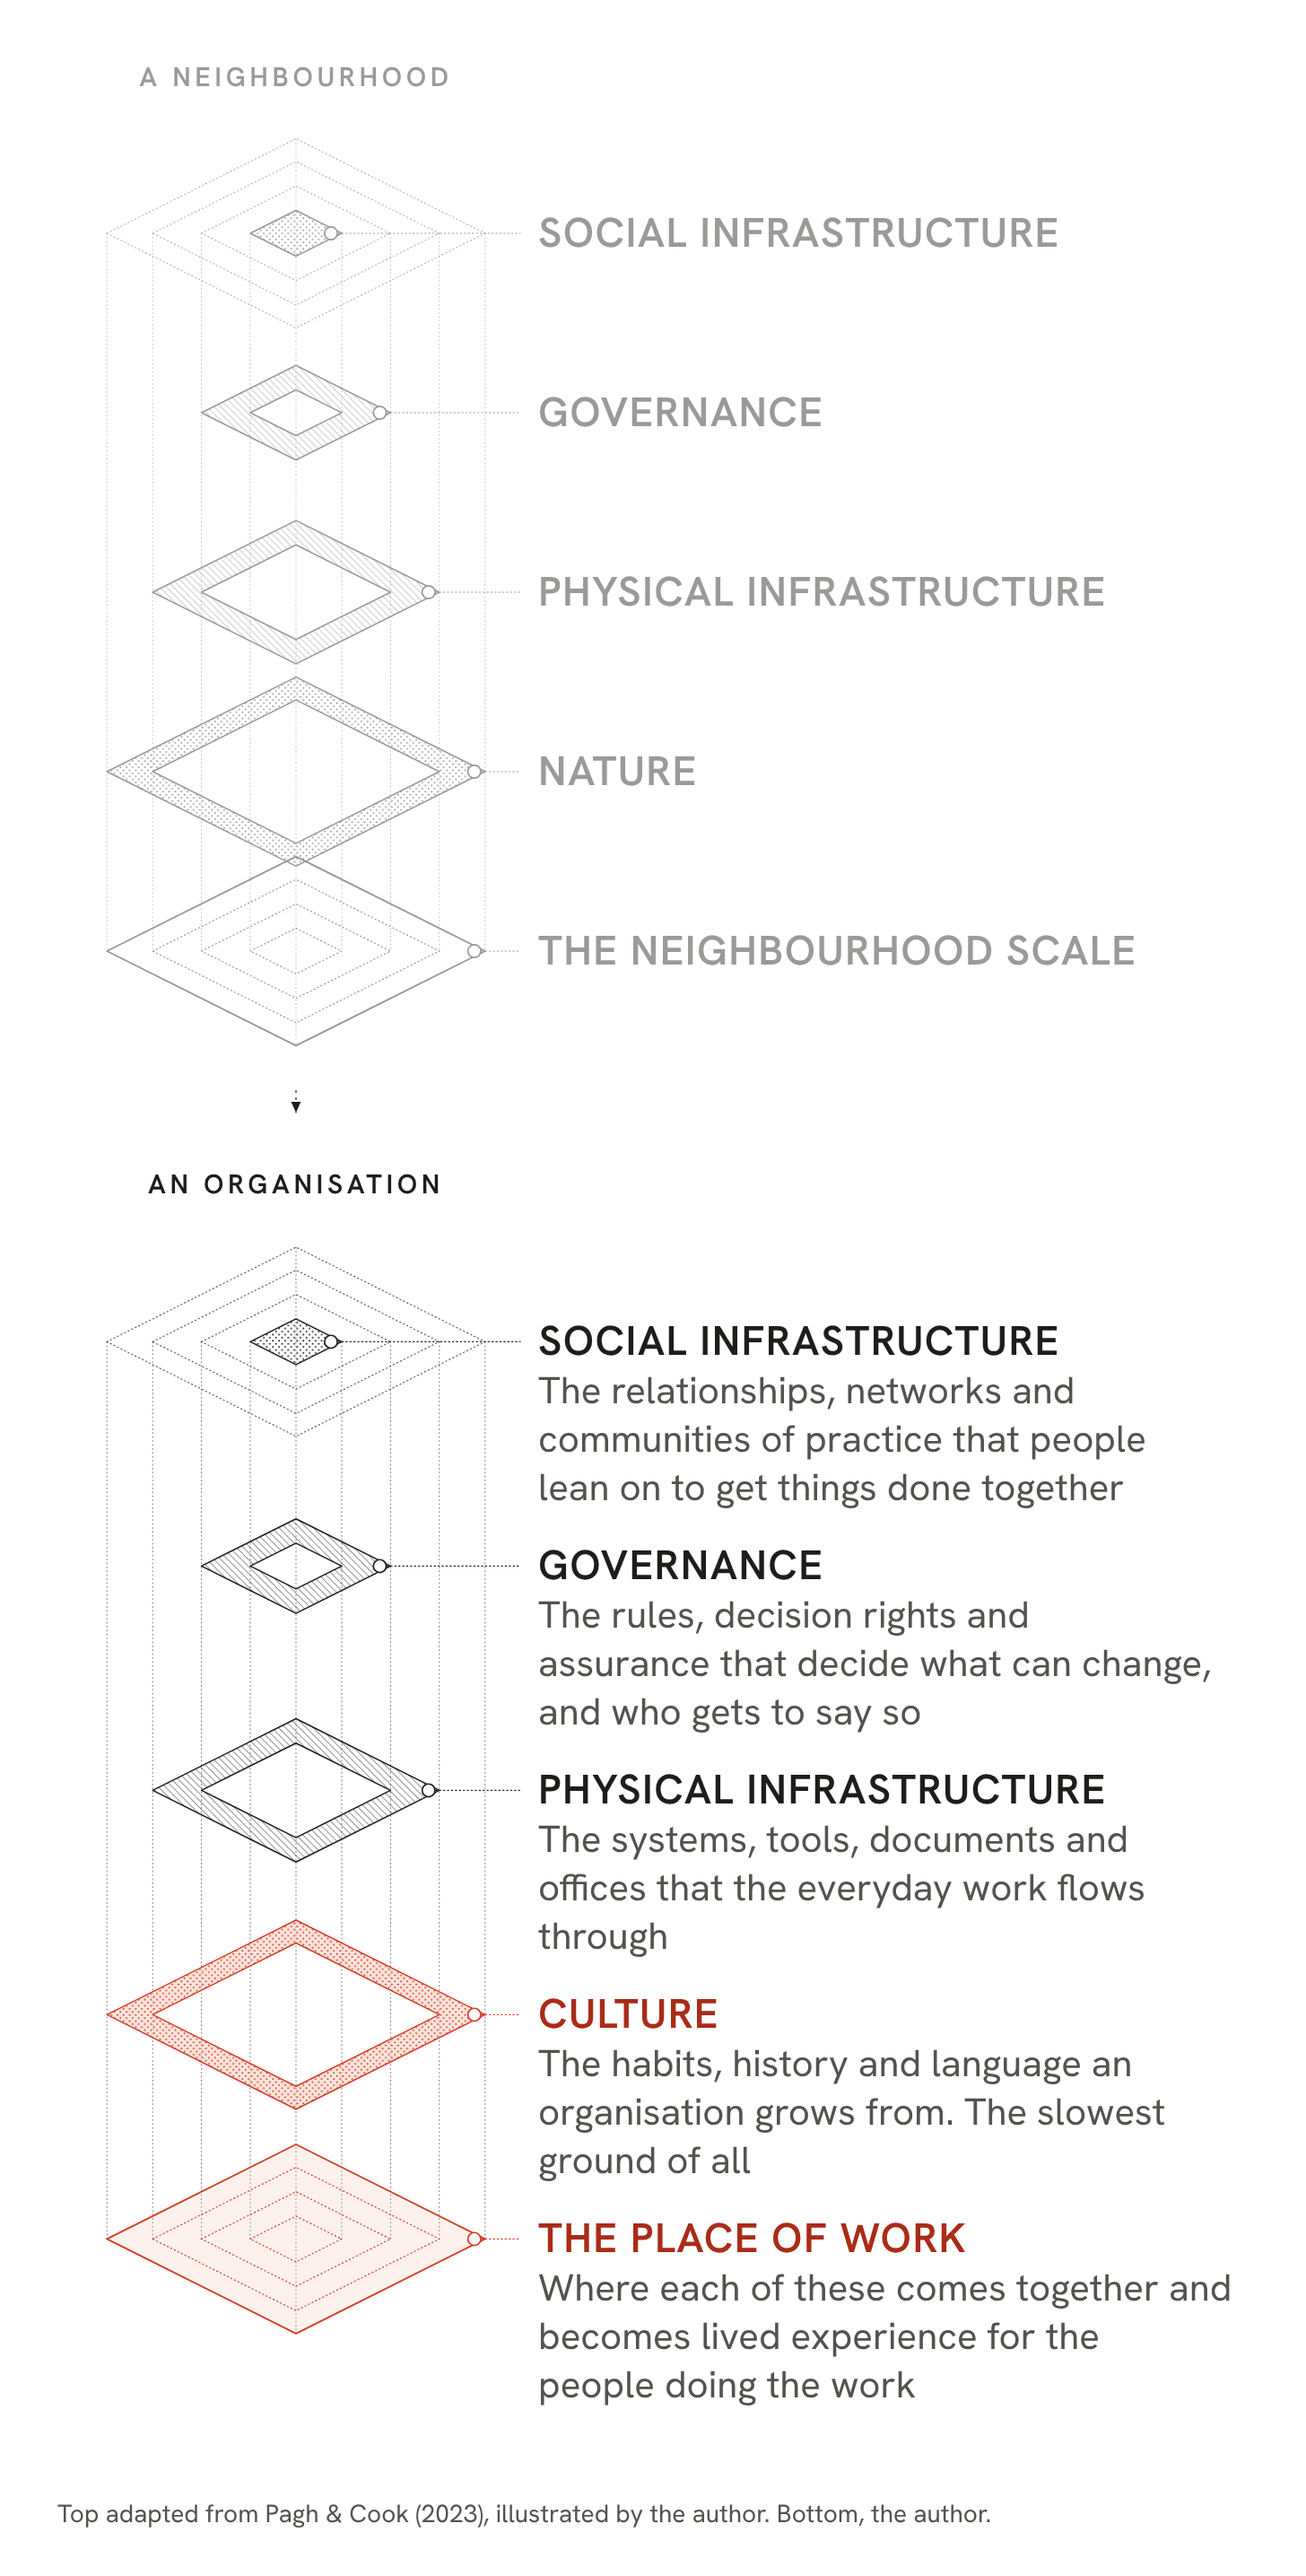
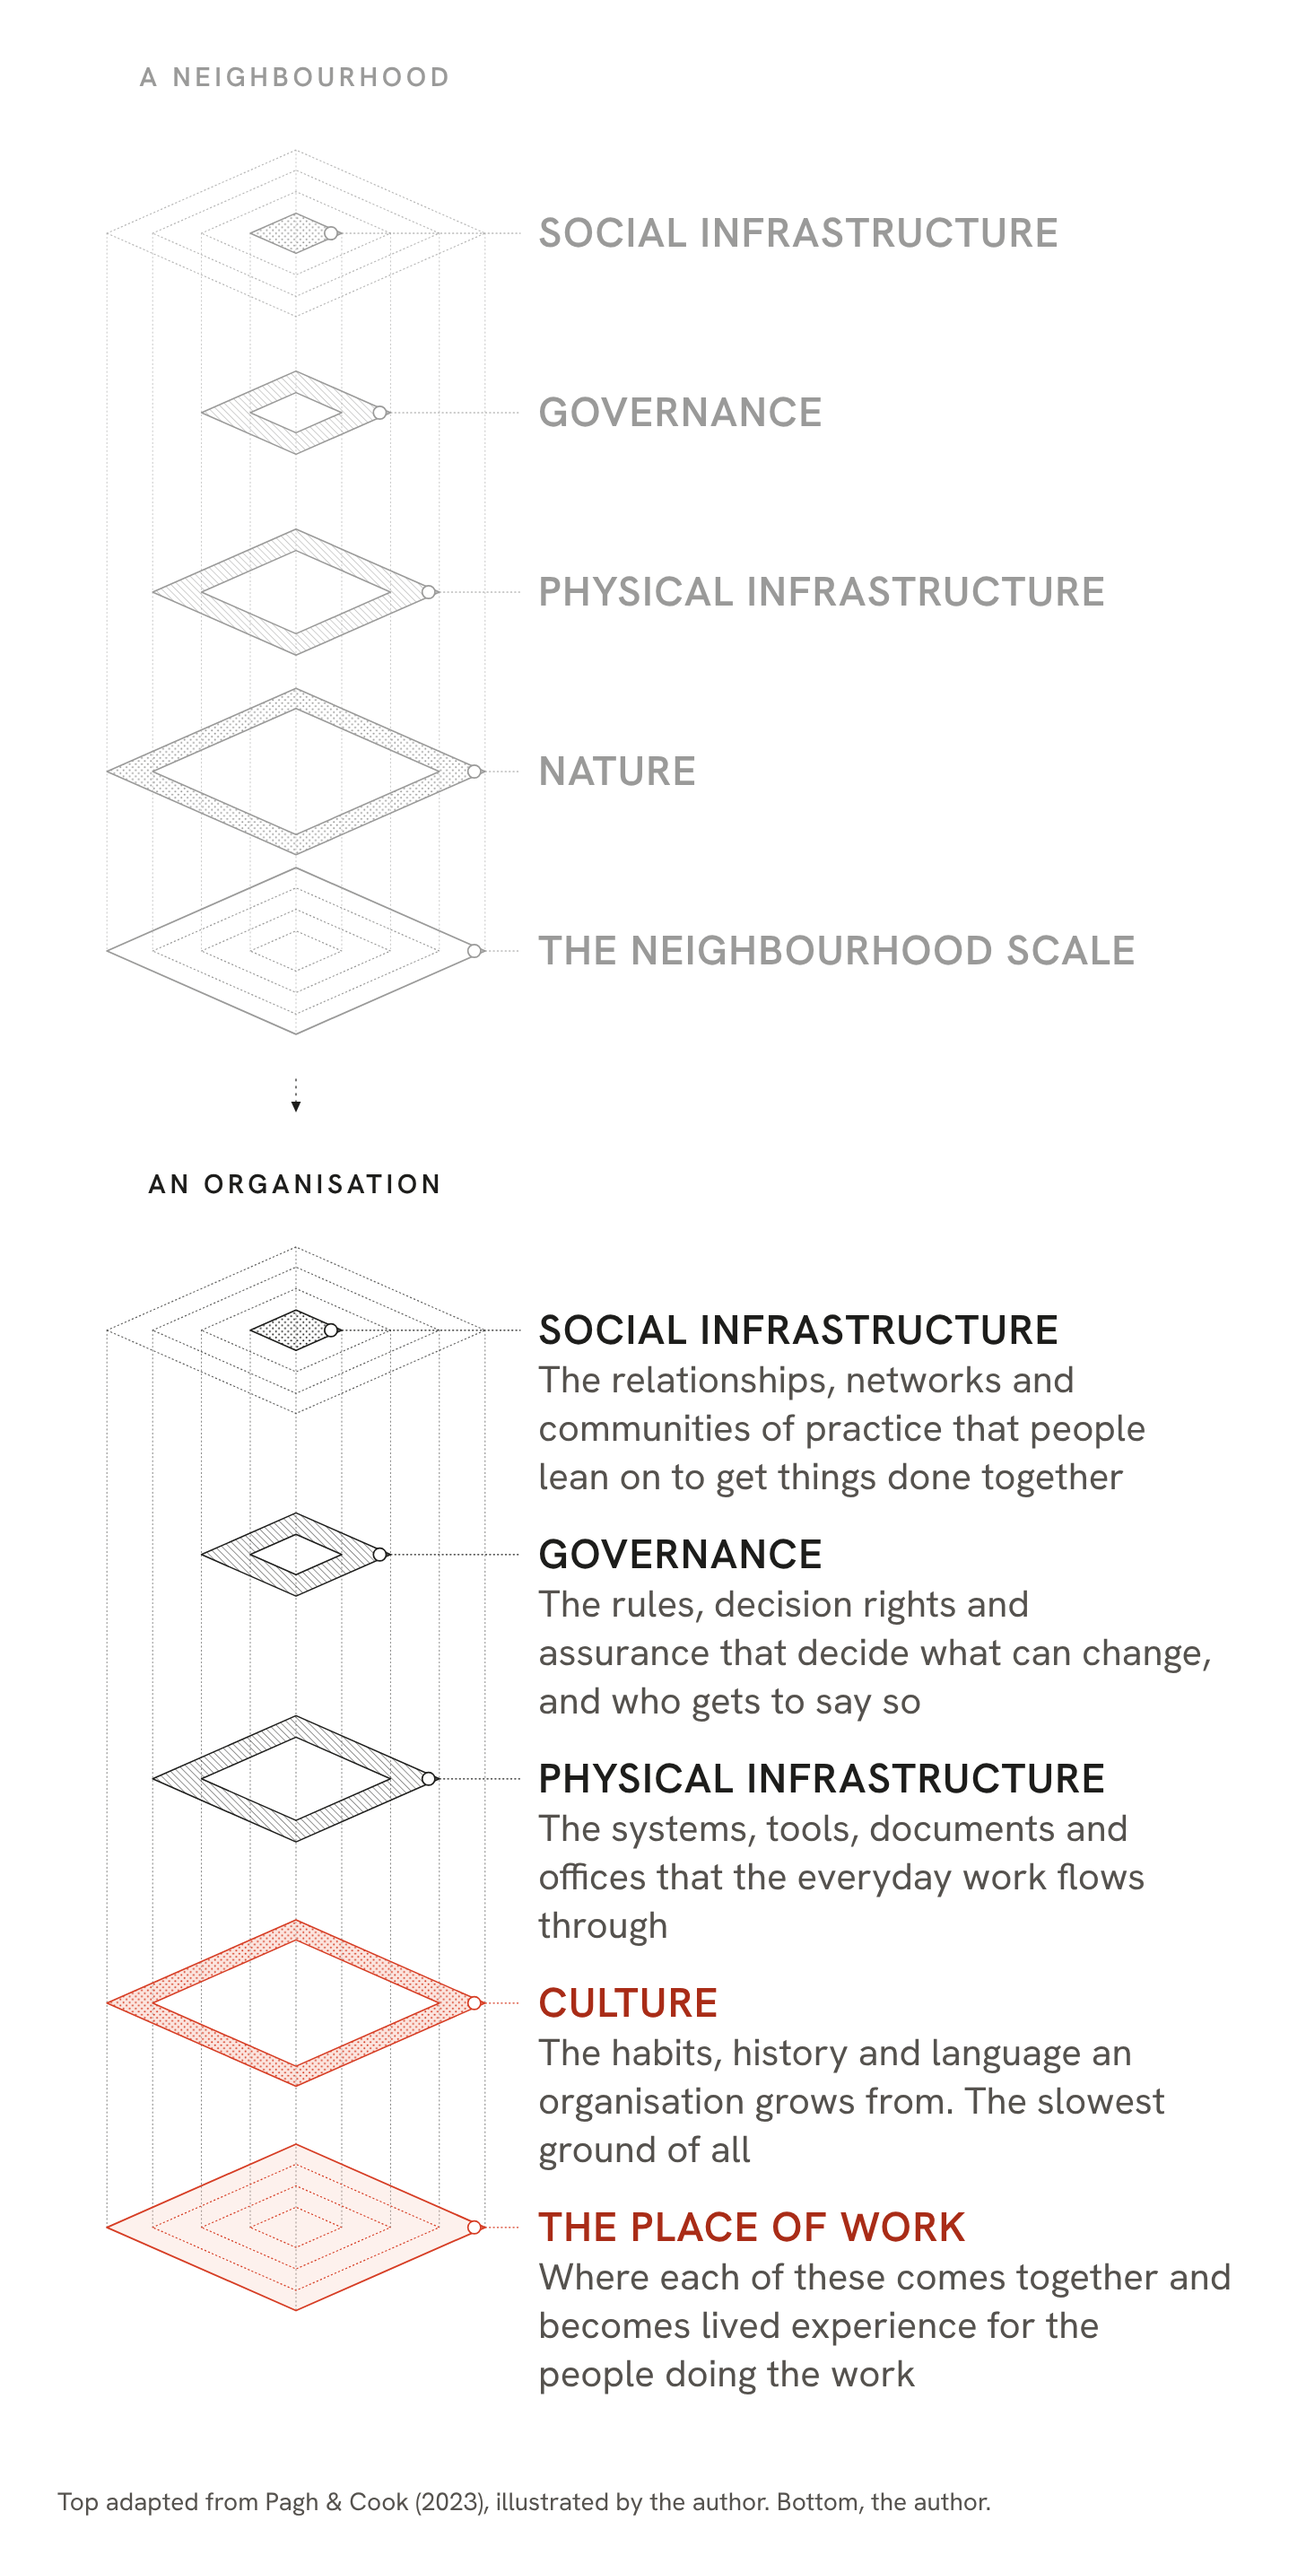
Add a single-panel place diagram and widen the drawing
place-diagram-single is the organisation alone, for the essay: labels and
descriptions on the left at a larger size as in the thesis original, one
accent on the place of work, no panel heading, and the credit 'Adapted
from the author's thesis, after Pagh & Cook (2023)'. Its drawing scales
up while the line weight stays fine.

Both versions draw the diamonds wider and a little flatter. The diptych
files stay, and alt.txt gains the single panel's alt text.

Claude-Session: https://claude.ai/code/session_01Ed2Ec9Yoie7vScgGFT9Sup

diff --git a/prototypes/place/make_diagram.py b/prototypes/place/make_diagram.py
@@ -4,7 +4,8 @@ The neighbourhood stack is the thesis figure (after Pagh & Cook 2023); the organ
 stack uses the same geometry with different material. Labels and descriptions live in
 LAYERS so they're easy to swap.
 
-    python3 make_diagram.py            writes place-diagram.svg and place-diagram-mobile.svg
+    python3 make_diagram.py    writes place-diagram-single.svg (the organisation alone),
+                               place-diagram.svg (side by side) and place-diagram-mobile.svg (stacked)
 """
 from html import escape
 
@@ -25,13 +26,16 @@ LAYERS = [
 HEAD_LEFT, HEAD_RIGHT = "A NEIGHBOURHOOD", "AN ORGANISATION"
 CREDIT = "Left adapted from Pagh & Cook (2023), illustrated by the author. Right, the author."
 CREDIT_STACKED = "Top adapted from Pagh & Cook (2023), illustrated by the author. Bottom, the author."
+CREDIT_SINGLE = "Adapted from the author's thesis, after Pagh & Cook (2023)."
+# On its own, the organisation keeps one accent, on the layer where the work is lived
+SINGLE_ACCENT = {4}
 
 # ---- look, shared with the navigation prototype
 FONT = '"Hanken Grotesk", "Helvetica Neue", Helvetica, Arial, sans-serif'
 LINE, TEXT, SOFT = "#1d1d1b", "#1d1d1b", "#55524e"
 INK, INK_TEXT, TINT = "#d63c23", "#a92c17", "#f6c6b8"
 MUTED = 0.45   # ink opacity for the neighbourhood stack
-ISO = 0.5      # diamond height to width
+ISO = 0.44     # diamond height to width, a little flatter than true isometric so it reads wide
 DOT = 'stroke-dasharray="1.2 3.2" stroke-linecap="round"'
 
 
@@ -69,8 +73,13 @@ def defs(k):
                                arrow("arrow", LINE), arrow("arrow-acc", INK)]) + "</defs>"
 
 
+def shifts():
+    return {i for i, layer in enumerate(LAYERS) if layer[3]}
+
+
 def stack(cx, ys, S, k, accent):
-    """Five layers: four nested rings growing downward, then the base where they meet."""
+    """Five layers: four nested rings growing downward, then the base where they meet.
+    accent is the set of layer indices drawn in the accent colour."""
     out = []
     for s in S:
         for x in (cx - s, cx + s):
@@ -80,13 +89,13 @@ def stack(cx, ys, S, k, accent):
         out.append(f'<path d="{diamond(cx, ys[0], s)}" fill="none" stroke="{LINE}" stroke-width="{.7 * k}" {DOT} opacity=".7"/>')
     rings = [(None, S[0], "stipple"), (S[0], S[1], "hatch"), (S[1], S[2], "hatch"), (S[2], S[3], "stipple")]
     for i, (inner, outer, fill) in enumerate(rings):
-        acc = accent and LAYERS[i][3]
+        acc = i in accent
         d = diamond(cx, ys[i], outer) + (" " + diamond(cx, ys[i], inner) if inner else "")
         if acc:
             out.append(f'<path d="{d}" fill="{TINT}" fill-opacity=".45" fill-rule="evenodd"/>')
         out.append(f'<path d="{d}" fill="url(#{fill}{"-acc" if acc else ""})" fill-rule="evenodd" '
                    f'stroke="{INK if acc else LINE}" stroke-width="{.9 * k}" stroke-linejoin="round"/>')
-    acc = accent and LAYERS[4][3]
+    acc = 4 in accent
     c = INK if acc else LINE
     if acc:
         out.append(f'<path d="{diamond(cx, ys[4], S[3])}" fill="{TINT}" fill-opacity=".25"/>')
@@ -114,9 +123,9 @@ def svg_open(W, H, k):
 def diptych():
     """Side by side, for desktop and the Substack column."""
     W, H, k = 1456, 1080, 1
-    S = [30, 62, 94, 124]
+    S = [34, 70, 104, 138]
     ys = [210 + i * 175 for i in range(5)]
-    CX_L, CX_R, LABEL_L, LABEL_R = 541, 880, 48, 1028
+    CX_L, CX_R, LABEL_L, LABEL_R = 540, 876, 48, 1040
     LAB, DESC = 21, 21
     head = f'font-size="15" font-weight="600" letter-spacing="2.4" fill="{TEXT}"'
     p = svg_open(W, H, k)
@@ -124,7 +133,7 @@ def diptych():
     p.append(f'<text x="{CX_R}" y="78" text-anchor="middle" {head}>{HEAD_RIGHT}</text>')
 
     p.append(f'<g opacity="{MUTED}">')
-    p += stack(CX_L, ys, S, k, False)
+    p += stack(CX_L, ys, S, k, set())
     for i, layer in enumerate(LAYERS):
         x = CX_L - outer(S, i)
         p.append(leader(LABEL_L + 330, x + 4, ys[i], x + 9, LINE, k))
@@ -138,13 +147,13 @@ def diptych():
                  f'stroke-width="{1 if acc else .75}" stroke-dasharray="1.2 3.6" stroke-linecap="round" opacity="{1 if acc else .7}" '
                  f'marker-end="url(#arrow{"-acc" if acc else ""})"/>')
 
-    p += stack(CX_R, ys, S, k, True)
+    p += stack(CX_R, ys, S, k, shifts())
     for i, (_, lab, desc, acc) in enumerate(LAYERS):
         x = CX_R + outer(S, i)
         c = INK if acc else LINE
         p.append(leader(x - 4, LABEL_R - 14, ys[i], x - 9, c, k))
         p.append(f'<text x="{LABEL_R}" y="{ys[i] + 7}" font-size="{LAB}" font-weight="600" letter-spacing=".8" fill="{INK_TEXT if acc else TEXT}">{escape(lab)}</text>')
-        for n, line in enumerate(wrap(desc, DESC, 380)):
+        for n, line in enumerate(wrap(desc, DESC, 370)):
             p.append(f'<text x="{LABEL_R}" y="{ys[i] + 38 + n * 28}" font-size="{DESC}" fill="{SOFT}">{escape(line)}</text>')
     p.append(f'<text x="48" y="{H - 34}" font-size="14" fill="{SOFT}">{escape(CREDIT)}</text>')
     return "\n".join(p + ["</svg>"])
@@ -165,7 +174,7 @@ def stacked():
 
     p.append(f'<g opacity="{MUTED}">')
     p.append(f'<text x="{CX}" y="96" text-anchor="middle" {head}>{HEAD_LEFT}</text>')
-    p += stack(CX, ys_a, S, k, False)
+    p += stack(CX, ys_a, S, k, set())
     for i, layer in enumerate(LAYERS):
         x = CX + outer(S, i)
         p.append(leader(x - 4, LABEL - 20, ys_a[i], x - 12, LINE, k))
@@ -177,7 +186,7 @@ def stacked():
     p.append(f'<line x1="{CX}" y1="{y1:.1f}" x2="{CX}" y2="{y2:.1f}" stroke="{LINE}" stroke-width="{1.2}" stroke-dasharray="2 6" stroke-linecap="round" marker-end="url(#arrow)"/>')
     p.append(f'<text x="{CX}" y="{y2 + 90:.1f}" text-anchor="middle" {head}>{HEAD_RIGHT}</text>')
 
-    p += stack(CX, ys_b, S, k, True)
+    p += stack(CX, ys_b, S, k, shifts())
     for i, (_, lab, desc, acc) in enumerate(LAYERS):
         x = CX + outer(S, i)
         c = INK if acc else LINE
@@ -189,6 +198,31 @@ def stacked():
     return "\n".join(p + ["</svg>"])
 
 
+def single():
+    """The organisation on its own: labels on the left as in the thesis original, larger type,
+    one accent on the place of work, no panel heading. The caption goes in Substack."""
+    # the drawing grows 2.2 times, the line weight only 1.4 times, so it stays a fine drawing
+    W, k, kl = 1456, 2.2, 1.4
+    S = [s * k for s in (34, 70, 104, 134)]
+    CX, LABEL, LAB, DESC, LH, G = 1052, 64, 36, 31, 41, 225
+    top = 96 + S[3] * ISO
+    ys = [top + i * G for i in range(5)]
+    H = int(ys[4] + S[3] * ISO + 150)
+    p = svg_open(W, H, kl)
+    p += stack(CX, ys, S, kl, SINGLE_ACCENT)
+    for i, (_, lab, desc, _) in enumerate(LAYERS):
+        acc = i in SINGLE_ACCENT
+        x = CX - outer(S, i)
+        c = INK if acc else LINE
+        p.append(leader(LABEL + 560, x + 6, ys[i], x + 12, c, kl))
+        p.append(f'<text x="{LABEL}" y="{ys[i] + 12:.1f}" font-size="{LAB}" font-weight="600" letter-spacing="1.2" fill="{INK_TEXT if acc else TEXT}">{escape(lab)}</text>')
+        for n, line in enumerate(wrap(desc, DESC, 560)):
+            p.append(f'<text x="{LABEL}" y="{ys[i] + 12 + LH + 4 + n * LH:.1f}" font-size="{DESC}" fill="{SOFT}">{escape(line)}</text>')
+    p.append(f'<text x="{LABEL}" y="{H - 52}" font-size="22" fill="{SOFT}">{escape(CREDIT_SINGLE)}</text>')
+    return "\n".join(p + ["</svg>"])
+
+
 if __name__ == "__main__":
+    open("place-diagram-single.svg", "w").write(single())
     open("place-diagram.svg", "w").write(diptych())
     open("place-diagram-mobile.svg", "w").write(stacked())

diff --git a/prototypes/README.md b/prototypes/README.md
@@ -8,7 +8,7 @@ Only this folder is published, by `.github/workflows/pages.yml`, on any push to 
 
 **[navigation/](navigation/)** goes with *Tasting the organisational treacle*. A 3D sketch on one screen. The cone lies on its side, narrow citizen end on the left, and drifts on its own when left alone. Drag it any way, trackball style, and it turns all the way round in that direction; flick it and it tumbles, slows, then brings the nearest of six faces round (value, legitimacy, capacity and the edges between them). A note points at whatever is facing you. A dotted trail records where the experiment has settled, and each thing it turns up swells that layer and stretches that corner of the triangle, which keeps its straight edges, so the drawing ends up a different shape from the one it started as. Layer names sit under their rings, and a pace scale sits just below the drawing like a ruler, reading from an afternoon to a parliament or more; it holds still while the model turns, and both fade end on. End on, the three questions show under their corners. `og.png` is the share image. One self-contained HTML file, no libraries. Earlier versions are kept as snapshots, [v0.1.0](navigation/v0.1.0/), [v0.2.0](navigation/v0.2.0/), [v0.3.0](navigation/v0.3.0/), [v0.4.0](navigation/v0.4.0/) and [v0.5.0](navigation/v0.5.0/).
 
-**[place/](place/)** goes with the same essay's "Experimentation as architecture" section. A static diptych, not an interactive one: the thesis figure of a neighbourhood's five layers (after Pagh & Cook 2023) beside an organisation drawn with the same layers, where nature becomes culture and the neighbourhood scale becomes the place of work. `make_diagram.py` writes both SVGs (side by side, and stacked for phones) with the copy at the top so labels are easy to swap; `render.js` exports the PNGs at 1456 px. `alt.txt` holds the alt text.
+**[place/](place/)** goes with the same essay's "Experimentation as architecture" section. A static diptych, not an interactive one: the thesis figure of a neighbourhood's five layers (after Pagh & Cook 2023) beside an organisation drawn with the same layers, where nature becomes culture and the neighbourhood scale becomes the place of work. There is also a single-panel version, the organisation alone with labels on the left, larger type and one accent on the place of work, for the essay itself. `make_diagram.py` writes all three SVGs (single, side by side, and the pair stacked for phones) with the copy at the top so labels are easy to swap; `render.js` exports the PNGs at 1456 px. `alt.txt` holds the alt text.
 
 ## Rules
 
